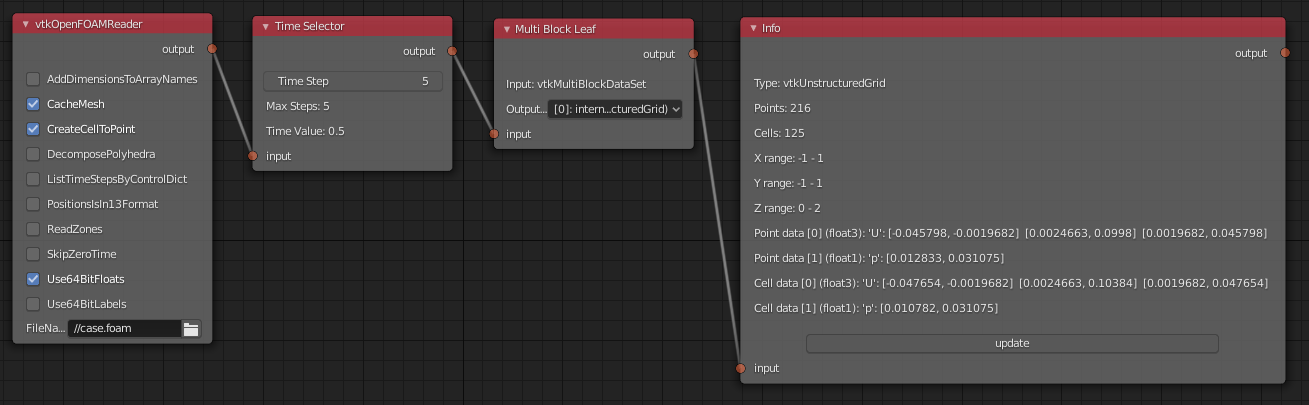
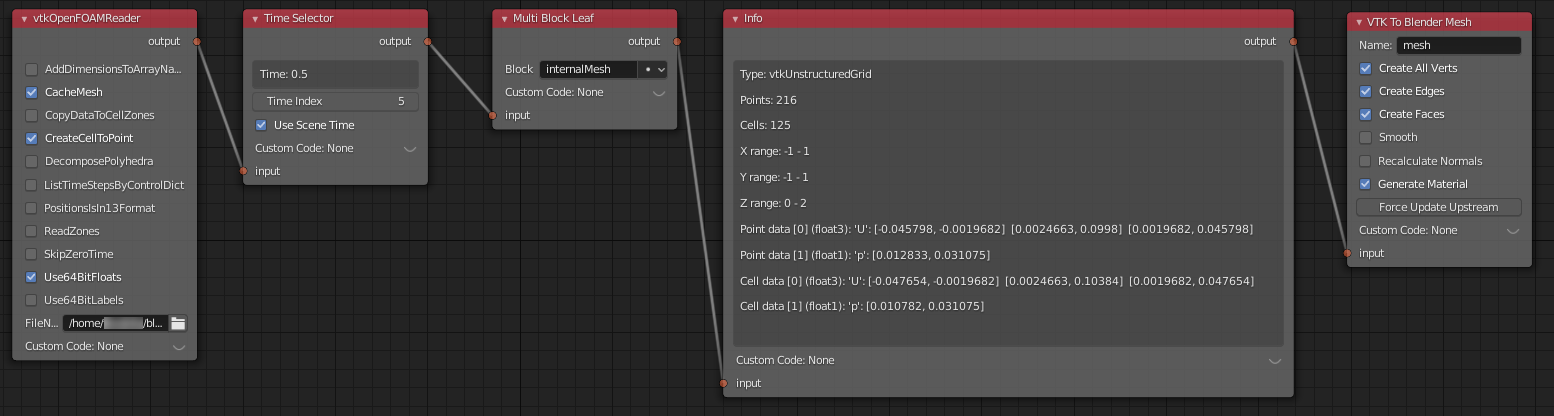
Docs: ug_nodes: reader setup, boundary patch

diff --git a/docs/ug_nodes.rst b/docs/ug_nodes.rst
@@ -8,7 +8,10 @@ grid (*vtkUnstructuredGrid*) data composed of 3D cells. Examples below
 utilize the *cubeflow* OpenFOAM dataset located in *examples_data*
 folder of the add-on sources. This is a very small and simple 5x5x5
 hexahedral mesh with 5 time points for testing and debugging
-purposes. For more elaborate visualizations, please have a look at
+purposes. The node tree examples below are available in *Tree* tab,
+*Examples*, names starting with *cubeflow*.
+
+For more elaborate visualizations, please have a look at
 `a gallery thread on blenderartists <https://blenderartists.org/t/bvtknodes-gallery/1161079>`_.
 
 .. image:: images/ug_cubeflow_geometry.png
@@ -17,21 +20,19 @@ purposes. For more elaborate visualizations, please have a look at
 Set Up Reader
 -------------
 
-Here is a typical start node setup to read data, select time, select
-the correct data block and finally info node to see information about
-data read in:
+This node tree example name is *cubeflow_base_boundary*.
+This is a typical start node setup which contains a reader node
+*vtkOpenFOAMReader* to read data, a *Time Selector* node to specify
+time, a *Multi Block Leaf* node to select the correct data block, an
+*Info* node to show the pipeline contents, and finally a *VTK To
+Blender Mesh* node to create the boundary mesh as a Blender mesh
+object.
 
-* Add *vtkOpenFOAMReader* - Select *case.foam* file located at the
-  *cubeflow* directory to **FileName** field.
-* Add *Time Selector* node and connect it
-* Add *Multi Block Leaf* node and connect it
-* Add *Info* node and connect it
-* Press *Update* button on *Info* node to update pipeline
-
-When data is read in correctly, the *Info* node shows number of
-points/cells, and fields read in. Set **Time Step** value to **5** in
-*Time Selector* node by changing frame number in
-Blender Timeline Editor.
+After importing the example, set **Time Index** value to **5** in
+*Time Selector* node by changing frame number in Blender Timeline
+Editor. Press *Update Node* button on *Info* node to update pipeline.
+If data is read in correctly, the *Info* node shows number of
+points/cells, and fields read in.
 
 .. image:: images/ug_reader_nodesetup.png
 
@@ -60,7 +61,8 @@ Extract Boundary Surfaces
 
 .. image:: images/vtk_to_blender_mesh_node.png
 
-Alternatively you can use *vtkGeometryFilter* followed by the legacy
+For forks other than `tkeskita/bvtknodes <https://github.com/tkeskita/BVtkNodes>`_
+you can use *vtkGeometryFilter* followed by the legacy
 *VTK To Blender* node.
 **Note**: This may not produce correct results for polyhedron meshes.
 
@@ -73,6 +75,10 @@ need to
   (see :ref:`custom_code`).
 * Add two *Multi Block Leaf* nodes in series to select patches and the
   wanted patch, before connecting to *VTK To Blender Mesh*.
+* Run *Update Node* and *Force Update Upstream* on *VTK To Blender
+  Mesh* node to make the ``EnableAllPatchArrays()`` work correctly.
+
+This node tree example name is *cubeflow_boundary_patch*.
 
 .. image:: images/ug_extract_boundary_patch_nodesetup.png
 
